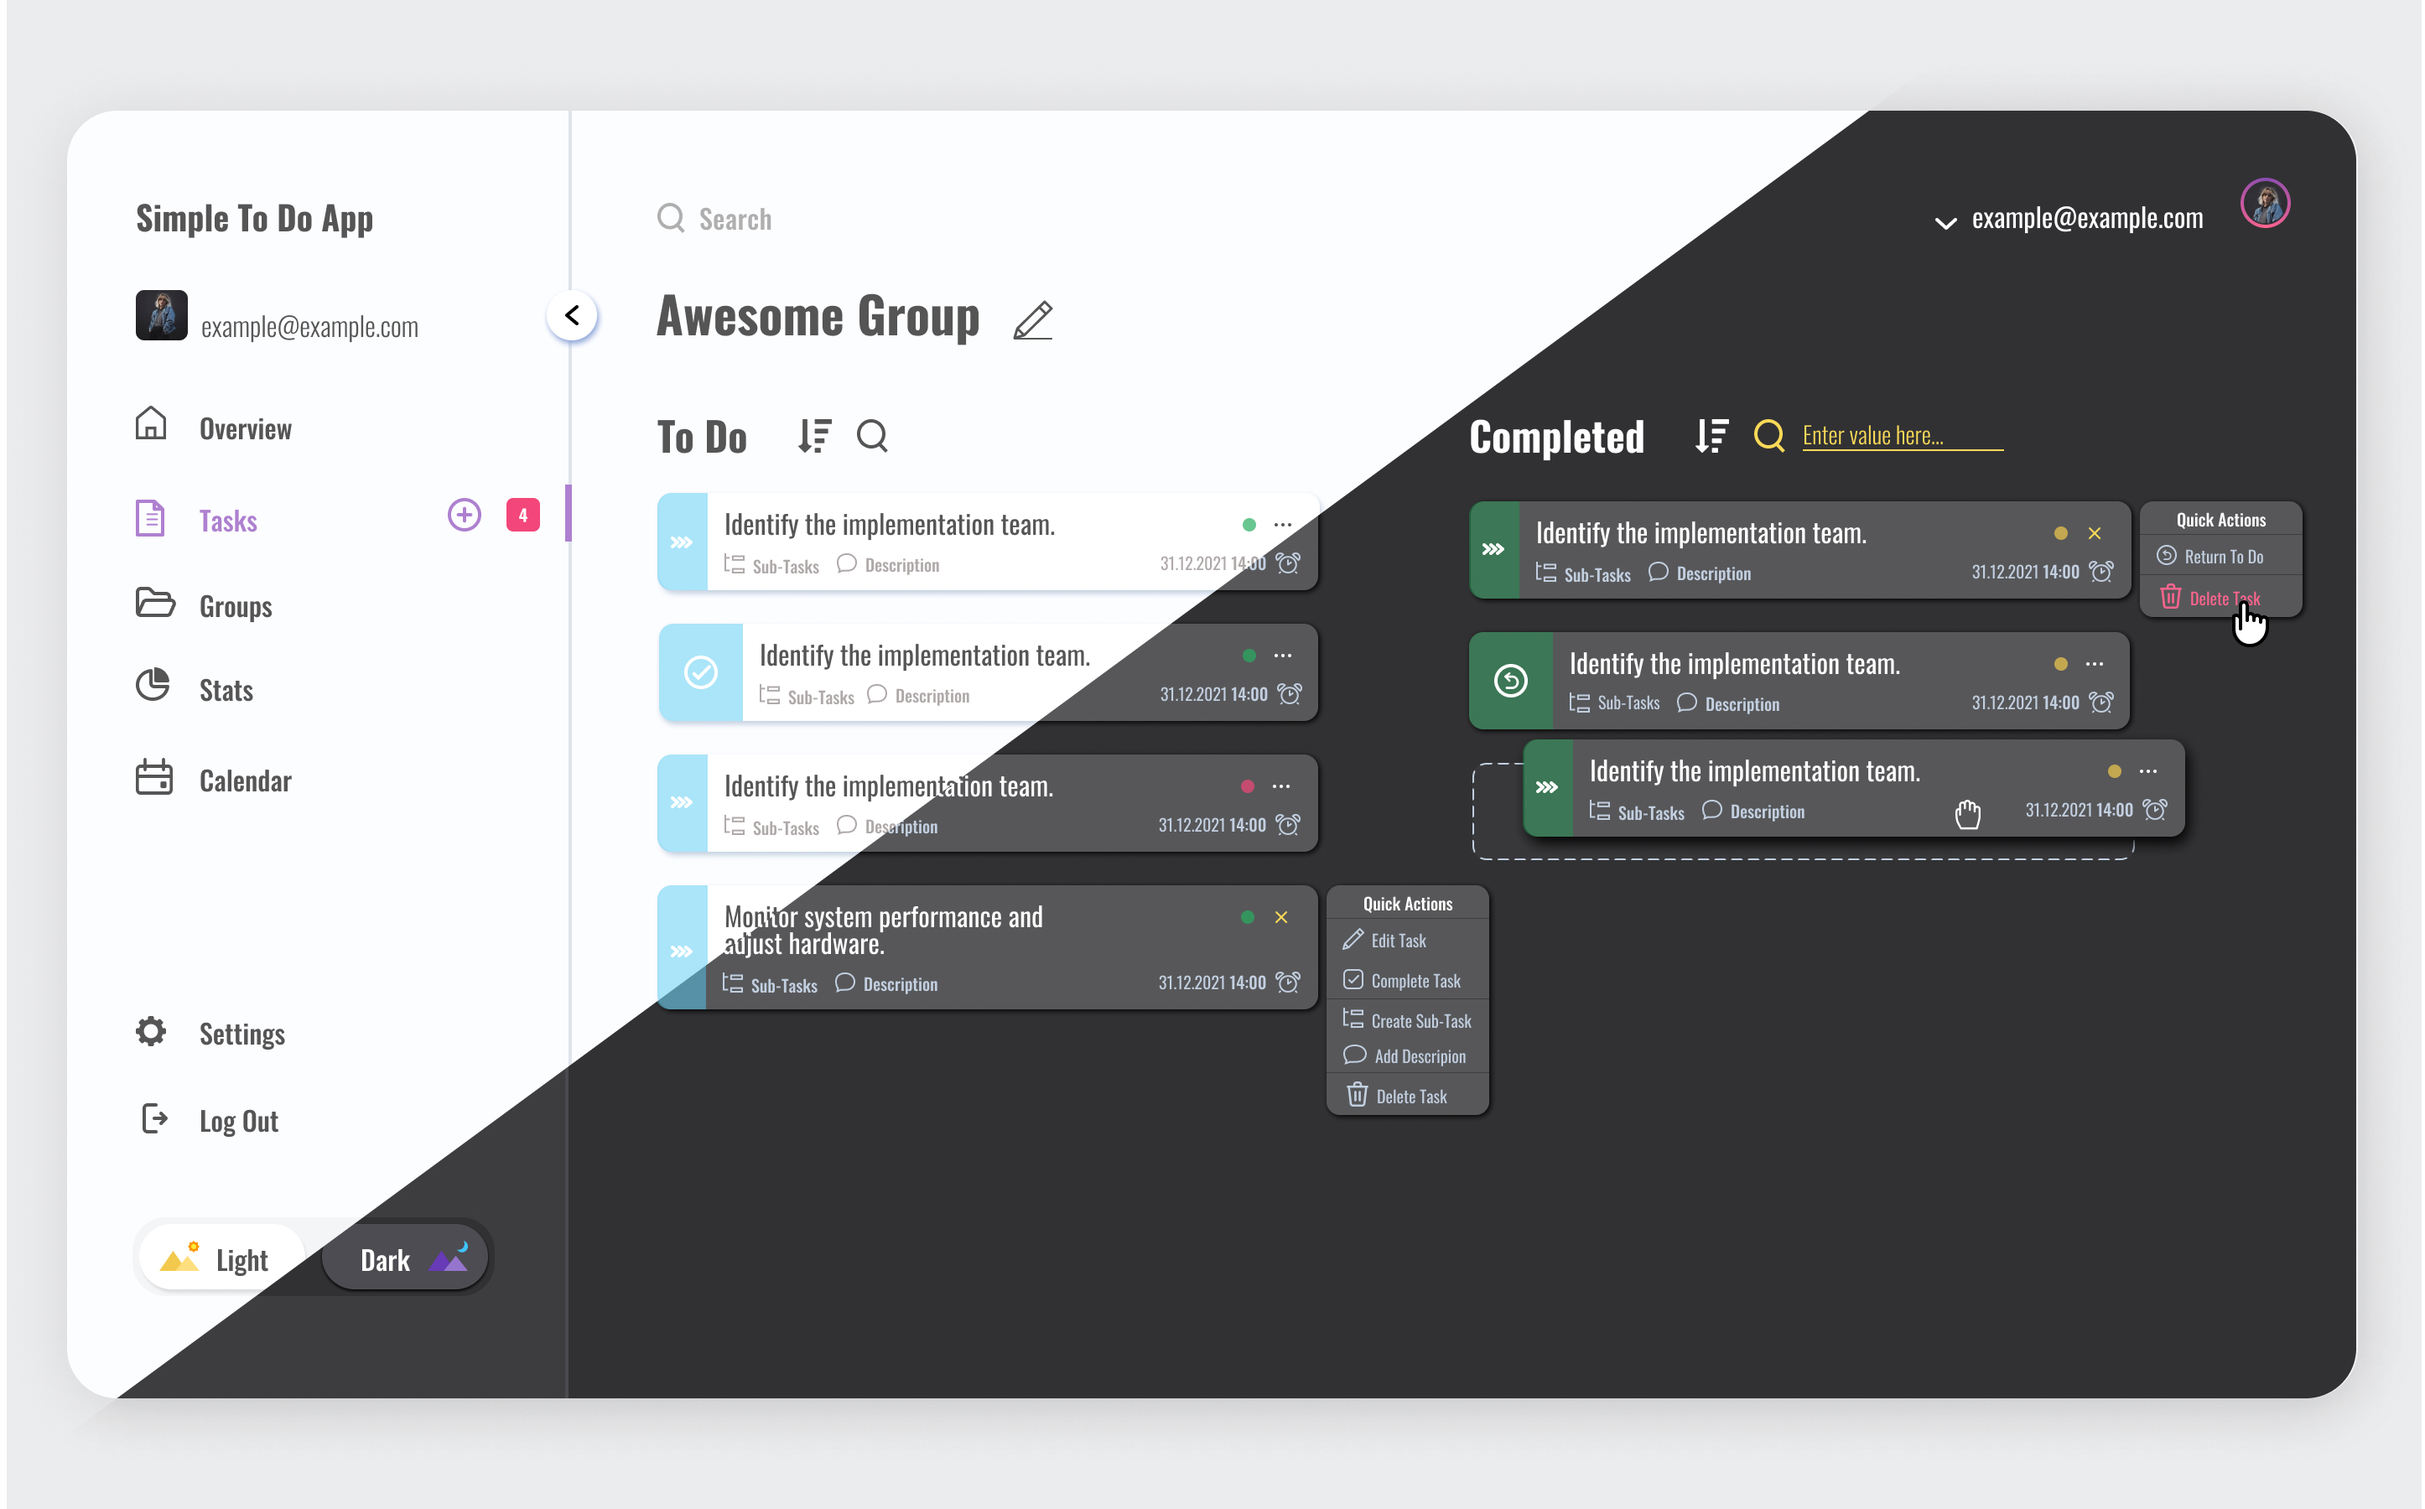
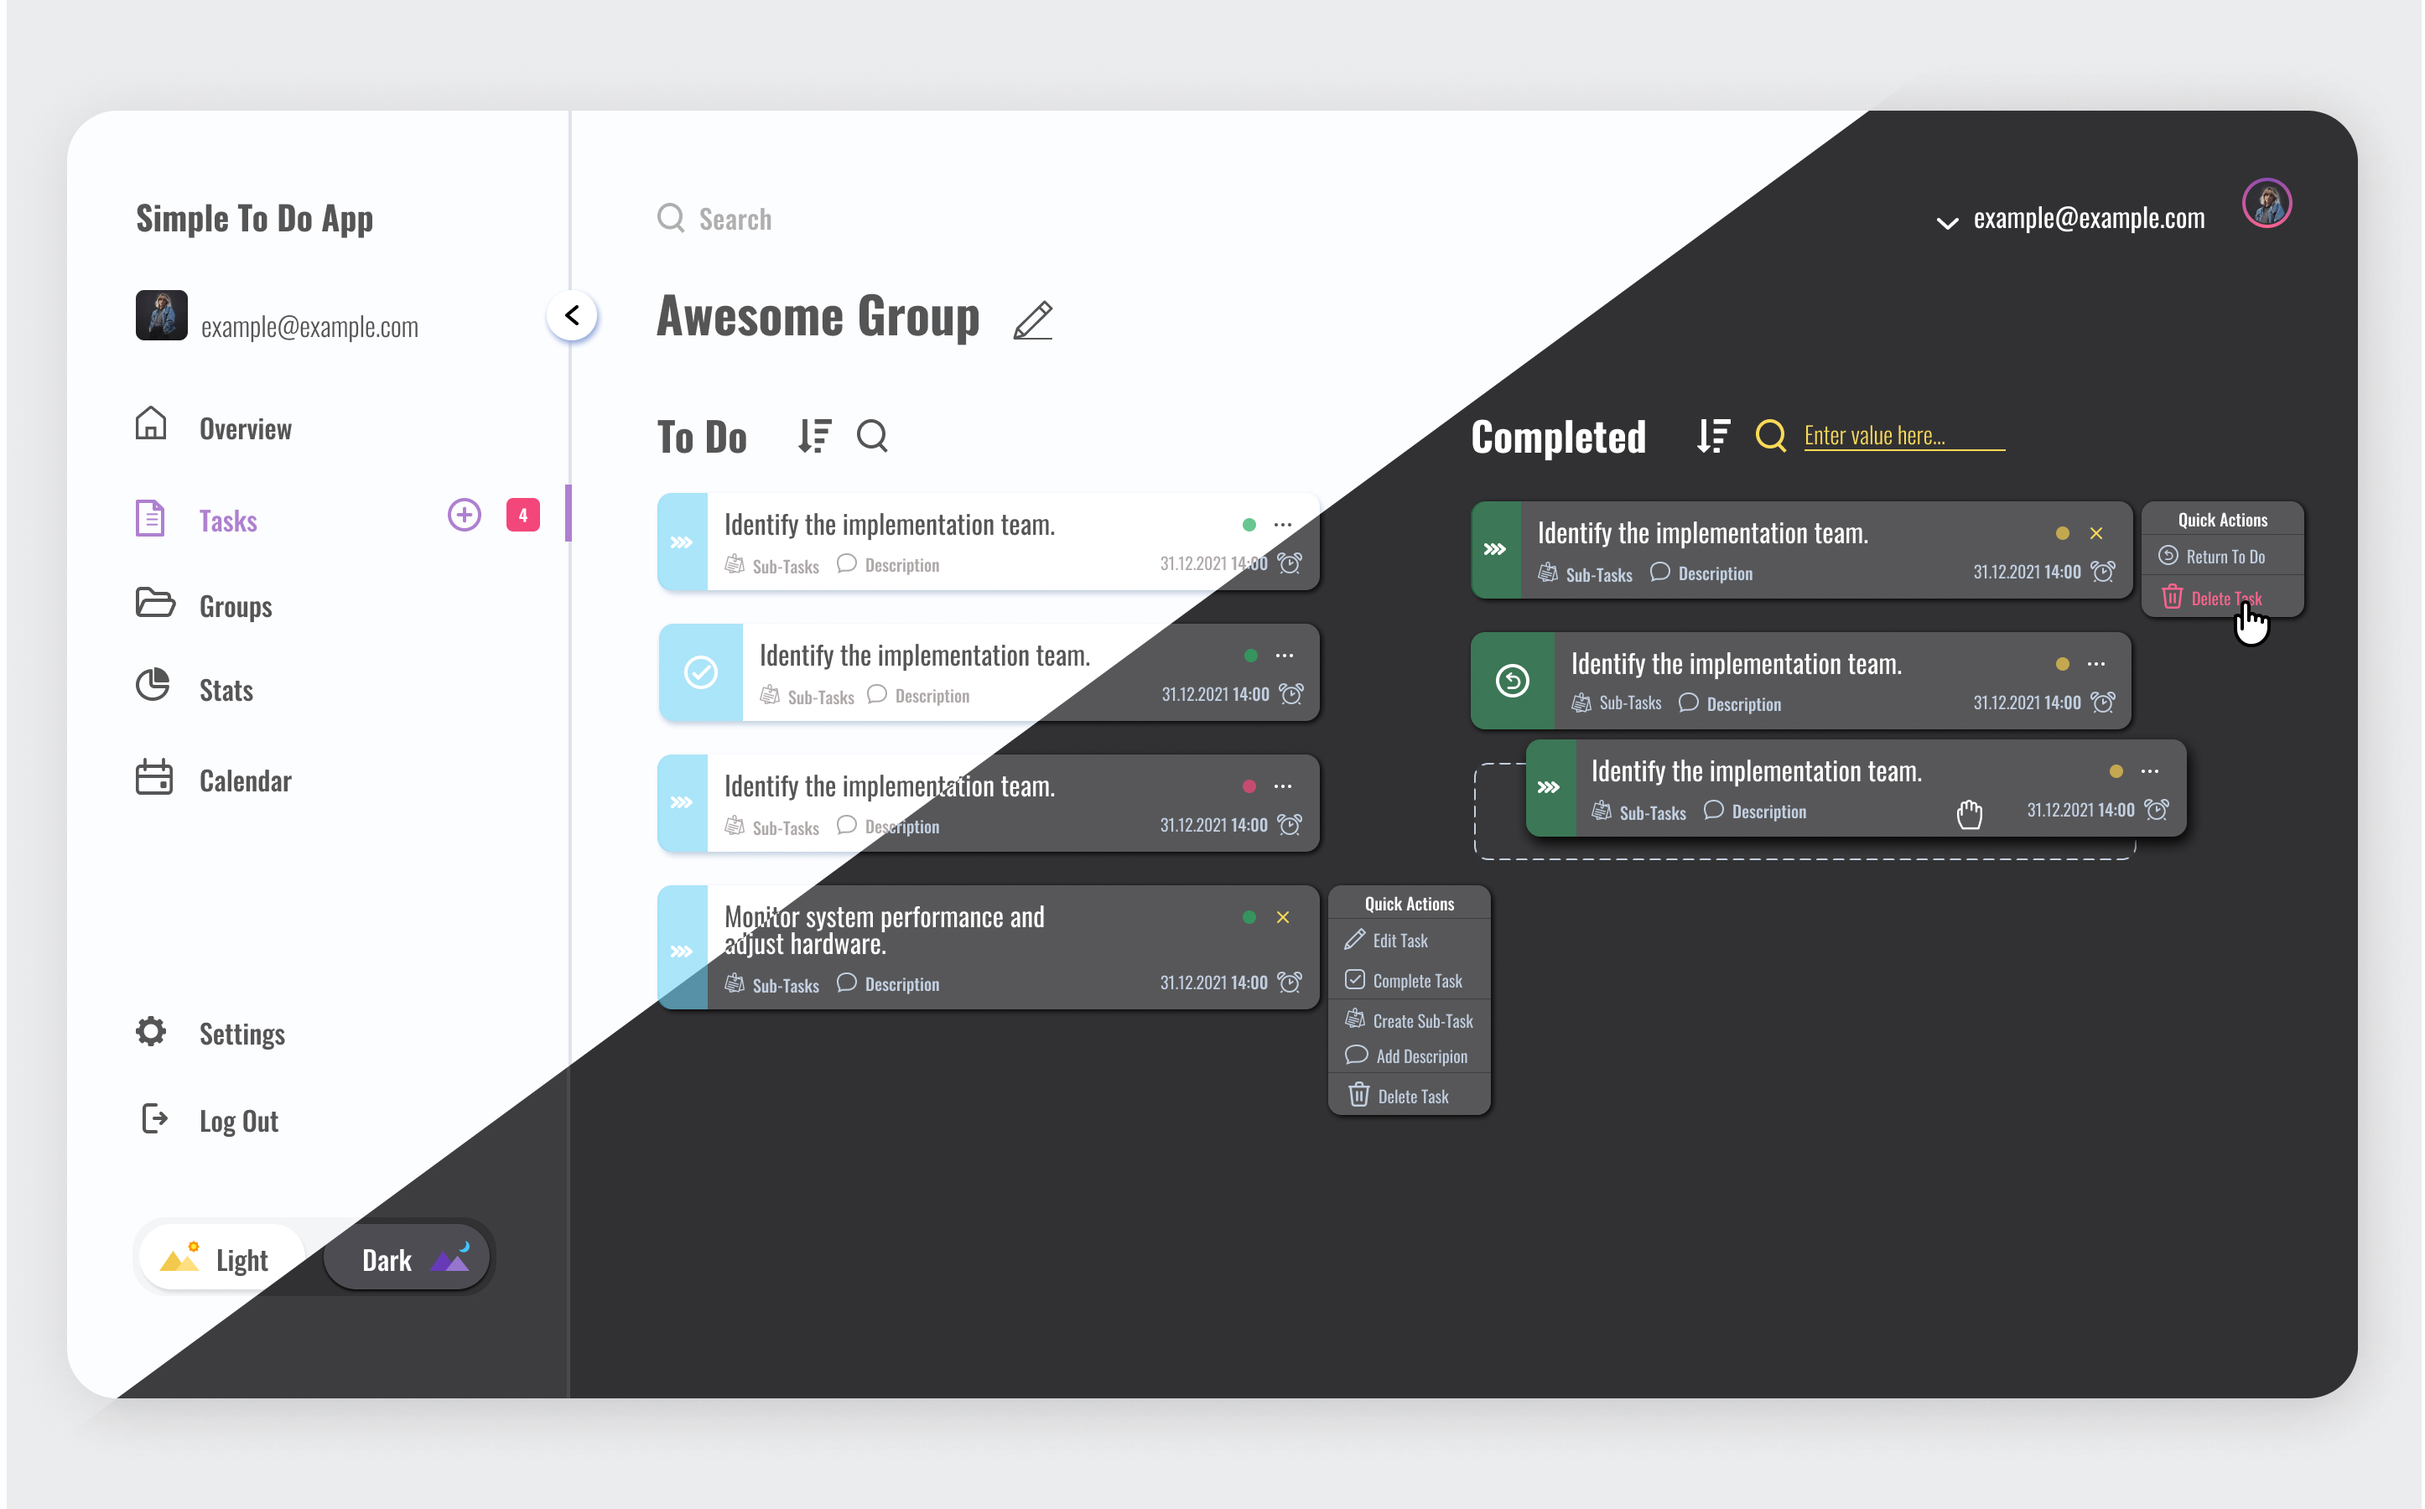
styled sidebar body

diff --git a/src/components/Sidebar/index.jsx b/src/components/Sidebar/index.jsx
@@ -16,54 +16,56 @@ export const Sidebar = () => {
 				</S.BtnMinifySidebar>
 			</S.Header>
 
-			<div className="sidebar__body">
-				<nav className="body__nav">
-					<ul>
-						<li className="overview">
-							<a href="#">
-								<span className="icon">
+			<S.Body>
+				<S.BodyNav>
+					<S.NavList>
+						<S.NavItem className="overview">
+							<S.Link href="#">
+								<S.ItemIcon>
 									<Images.Overview />
-								</span>
-								<span>Overview</span>
-							</a>
-						</li>
-						<li className="Tasks">
-							<a href="#">
-								<span className="icon">
-									<Images.Overview />
-								</span>{' '}
-								<span>Tasks</span>
-							</a>
-							<button className="addNewTask">
-								<span className="addNewTaskIcon"></span>
-							</button>
-							<span className="activeTasksBanner">4</span>
-						</li>
-						<li className="groups">
-							<a href="#">
-								<span className="icon">
+								</S.ItemIcon>
+								<S.ItemTitle>Overview</S.ItemTitle>
+							</S.Link>
+						</S.NavItem>
+						<S.NavItem className="Tasks">
+							<S.Link href="#">
+								<S.ItemIcon>
+									<Images.Tasks />
+								</S.ItemIcon>
+								<S.ItemTitle>Tasks</S.ItemTitle>
+							</S.Link>
+							<S.BtnAddNewTask>
+								<Images.Plus />
+							</S.BtnAddNewTask>
+							<S.ActiveTasksBanner>4</S.ActiveTasksBanner>
+						</S.NavItem>
+						<S.NavItem className="groups">
+							<S.Link href="#">
+								<S.ItemIcon>
 									<Images.Groups />
-								</span>{' '}
-								<span>Groups</span>
-							</a>
-						</li>
-						<li className="stats">
-							<a href="#">
-								<span className="icon">
+								</S.ItemIcon>
+								<S.ItemTitle>Groups</S.ItemTitle>
+							</S.Link>
+						</S.NavItem>
+						<S.NavItem className="Stats">
+							<S.Link href="#">
+								<S.ItemIcon>
 									<Images.Stats />
-								</span>{' '}
-								<span>Stats</span>
-							</a>
-						</li>
-						<li className="calendar">
-							<a href="#">
-								<span className="icon"></span> <Images.Calendar />
-								<span>Calendar</span>
-							</a>
-						</li>
-					</ul>
-				</nav>
-			</div>
+								</S.ItemIcon>
+								<S.ItemTitle>Stats</S.ItemTitle>
+							</S.Link>
+						</S.NavItem>
+						<S.NavItem className="calendar">
+							<S.Link href="#">
+								<S.ItemIcon>
+									<Images.Calendar />
+								</S.ItemIcon>
+								<S.ItemTitle>Calendar</S.ItemTitle>
+							</S.Link>
+						</S.NavItem>
+					</S.NavList>
+				</S.BodyNav>
+			</S.Body>
 
 			<div className="sidebar__footer">
 				<nav className="footer__nav">

diff --git a/src/components/Sidebar/styles.js b/src/components/Sidebar/styles.js
@@ -47,3 +47,53 @@ export const BtnMinifySidebar = styled.button`
 	background: #fff;
 	box-shadow: 1px 2px 4px #8ca4d8;
 `;
+
+// body
+
+export const Body = styled.div``;
+export const BodyNav = styled.nav``;
+export const NavList = styled.ul``;
+export const NavItem = styled.li`
+	display: flex;
+	margin-bottom: 27px;
+`;
+export const Link = styled.a`
+	display: flex;
+	align-items: center;
+	flex: 1;
+`;
+
+export const ItemIcon = styled.span`
+	margin-right: 15px;
+	display: flex;
+	align-items: center;
+
+	svg {
+		width: 20px;
+		height: 20px;
+	}
+`;
+export const ItemTitle = styled.span`
+	font-size: 16px;
+	font-weight: 500;
+`;
+
+export const BtnAddNewTask = styled.button`
+	margin-right: 15px;
+	display: flex;
+	align-items: center;
+`;
+export const ActiveTasksBanner = styled.span`
+	margin-right: 20px;
+	display: flex;
+	align-self: center;
+	align-items: center;
+	justify-content: center;
+	width: 20px;
+	height: 20px;
+	color: #fff;
+	font-size: 10px;
+	font-weight: 700;
+	border-radius: 4px;
+	background: var(--color-red);
+`;

diff --git a/src/assets/icons/iconPlus.jsx b/src/assets/icons/iconPlus.jsx
@@ -1,0 +1,23 @@
+import React from 'react';
+
+export const Plus = () => {
+	return (
+		<svg width="20" height="20" viewBox="0 0 20 20" fill="none" xmlns="http://www.w3.org/2000/svg">
+			<path
+				d="M10 6.29631V13.7037"
+				stroke="#555555"
+				strokeWidth="2"
+				strokeLinecap="round"
+				strokeLinejoin="round"
+			/>
+			<path
+				d="M13.7041 10H6.29669"
+				stroke="#555555"
+				strokeWidth="2"
+				strokeLinecap="round"
+				strokeLinejoin="round"
+			/>
+			<circle cx="10" cy="10" r="9" stroke="#555555" strokeWidth="2" />
+		</svg>
+	);
+};

diff --git a/src/assets/icons/index.js b/src/assets/icons/index.js
@@ -7,6 +7,7 @@ export { Stats } from './iconStats.jsx';
 export { Calendar } from './iconCalendar.jsx';
 export { Settings } from './iconSettings.jsx';
 export { LogOut } from './iconLogOut.jsx';
+export { Plus } from './iconPlus.jsx';
 
 //themes
 export { ThemeDark } from './iconThemeDark';
